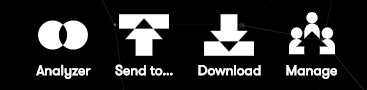
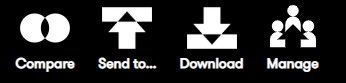
:pencil: Compare details

diff --git a/training/Workspaces/WorkspaceCompare.md b/training/Workspaces/WorkspaceCompare.md
@@ -1,11 +1,11 @@
 # Digital Explorer | Workspaces
 
-## Workspace Analyzer
-The `analyzer` options allows users to select 2 or 3 workspaces and compare for similar results
+## Workspace Compare
+The `Compare` options allows users to select 2 or 3 workspaces and compare for similar results
 
-- Access the Analyzer via the workspace tools<br>
+- Access the Compare via the workspace tools<br>
   ![image](images/WorkspaceTools.png)<br>
-- Select 1 or 2 other workspaces you wish to compare and click `Analyze`<br>
+- Select 1 or 2 other workspaces you wish to compare and click `Compare`<br>
   ![image](images/Analyzer1.png)<br>
 
 The results are shown as a Venn Diagram

diff --git a/training/Workspaces/readme.md b/training/Workspaces/readme.md
@@ -16,5 +16,7 @@ _duration : 0:56_
 | [Adding a Trend to a Workspace](AddingaTrendtoaWorkspace.md) |200|David Stevens|
 | [Adding a Solution to a Workspace](AddingaSolutiontoaWorkspace.md) |200|David Stevens|
 | [Workspace document upload and analyse](workspaceDocuments.md)|200|David Stevens|
+| [Workspace SendTo..](WorkspaceSendTo.md)|200|David Stevens
+| [Workspace Compare](orkspaceCompare.md)|200|David Stevens
 | [Real-time collaboration](Real-timeCollaboration.md)|200|David Stevens|
 

diff --git a/training/Workspaces/WorkspaceCanvas.md b/training/Workspaces/WorkspaceCanvas.md
@@ -5,7 +5,7 @@
 1. The Workspace canvas is divided into 4 areas:<br>
    <br>![login](images/workspace2.png)<br><br>
     1. Workspace tools
-       1. [Analyzer](WorkspaceAnaylzer.md)
+       1. [Compare](WorkspaceCompare.md)
        2. [SendTo](WorkspaceSendTo.md)
        3. Download
        4. Manage
